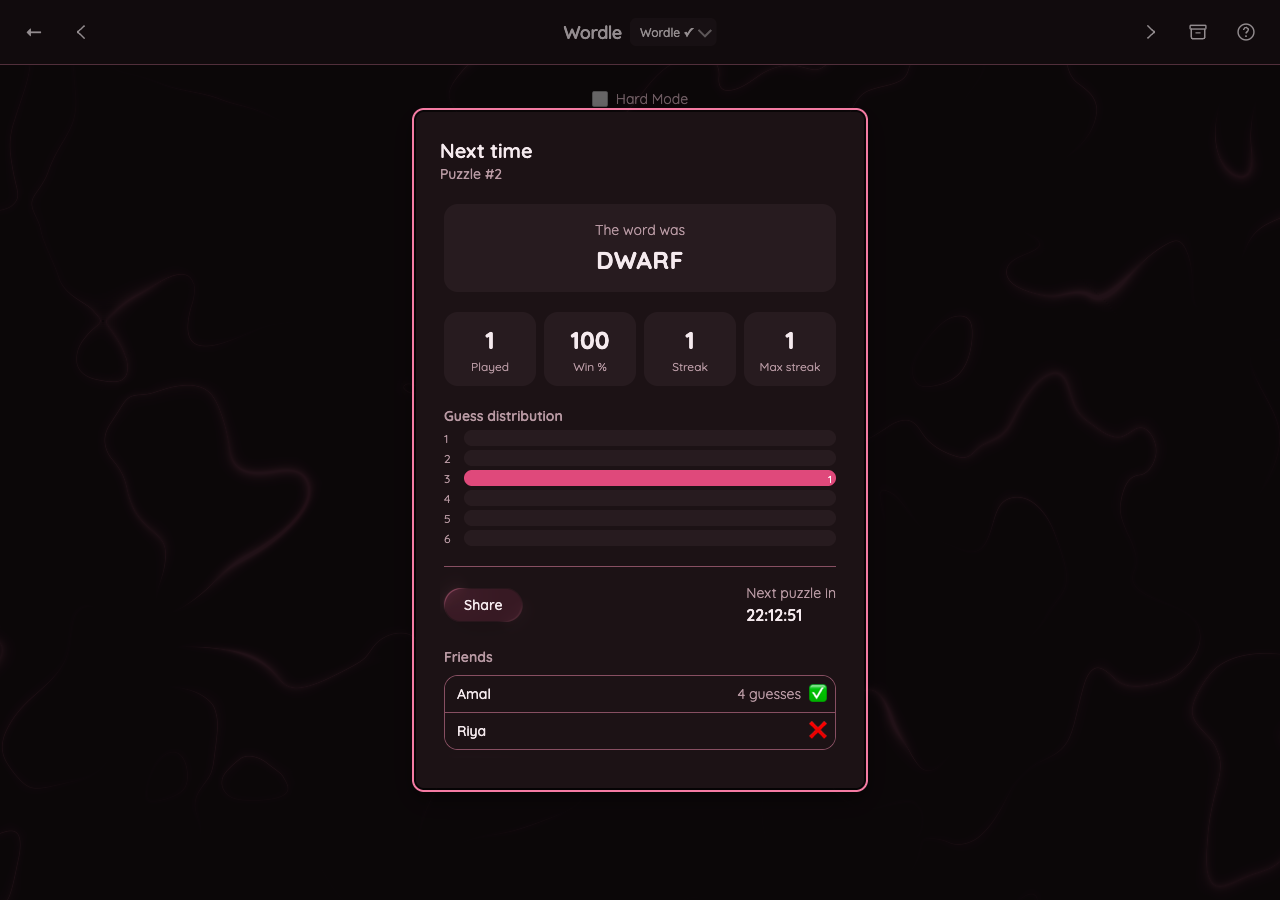
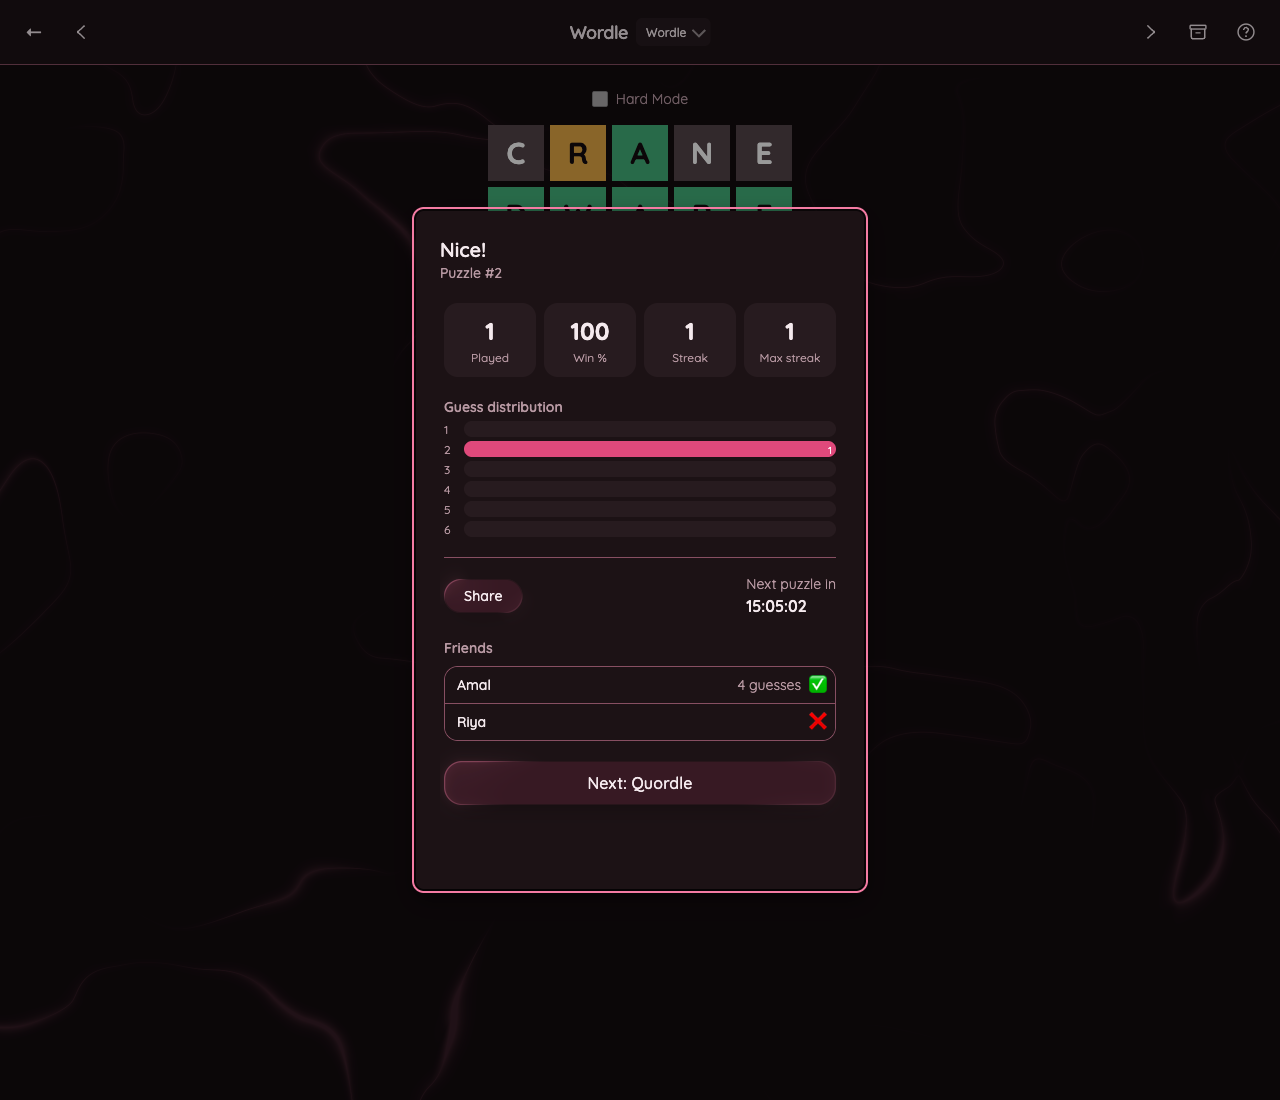
redesign: retake game-result screenshots, live-verify ResultModal
The committed game-result-{375,1280}.png were captured from a lost
game whose card exceeded the viewport, cutting off the Next-game
button. Played Wordle live via playwright-cli to confirm win state,
stats, and the Next-game button all render correctly together, and
replaced both screenshots with that run.

diff --git a/docs/redesign/checkpoint-2/REPORT.md b/docs/redesign/checkpoint-2/REPORT.md
@@ -1,8 +1,17 @@
 # Checkpoint 2 — build phase complete
 
 All of the Build section is done and live-verified (not just `pnpm test`/`pnpm build` passing —
-see `docs/redesign/HANDOFF.md` for three real bugs that passed both and were only caught by
-actually clicking through the app in a browser). Screenshots below at 375px and 1280px.
+see `docs/redesign/HANDOFF.md` for real bugs that passed both and were only caught by actually
+clicking through the app in a browser). Screenshots below at 375px and 1280px.
+
+The original `game-result-*.png` pair was retaken: it had been captured from a *lost* game whose
+card height exceeded the screenshot viewport, so the shot cut off before the "Next game" button —
+looked, out of context, like the button might be missing entirely. Played Wordle live
+(`playwright-cli`, headed, a real guess sequence ending in the correct answer) to check: the "Nice!"
+title, win stats, and "Next: Quordle" button all render correctly together. Replaced both files with
+that run. (The "Amal — 4 guesses" friends-board row is the local dev adapter's seeded fake-friends
+generator — `FAKE_FRIENDS` in `src/lib/data/local.ts`, deterministic per `gameId:date`, not real
+play data — pre-existing dev-mode behavior, not something this redesign changed.)
 
 ## Screenshots (`docs/redesign/checkpoint-2/`)
 
